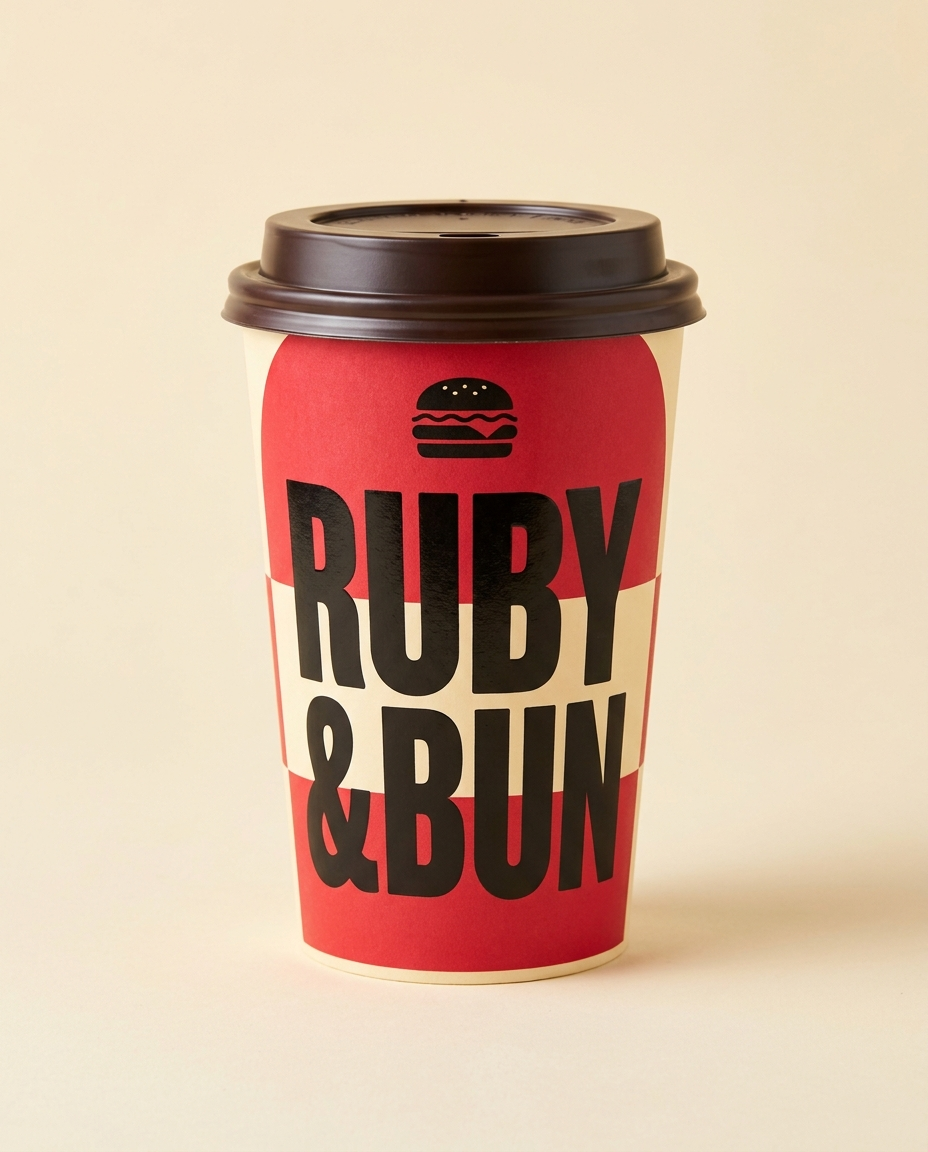
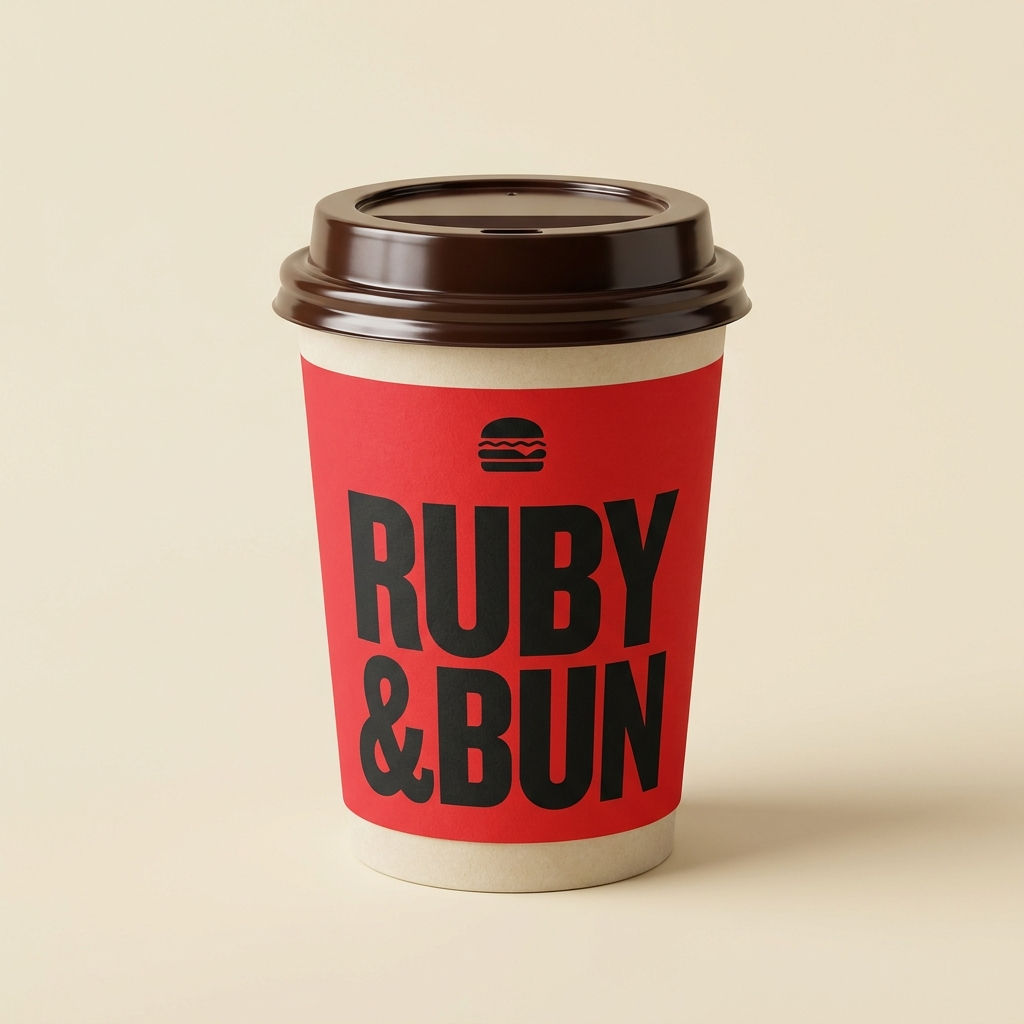
Remove PB-031 + fix hot-cup sizing + SEO basics for public launch
- Remove PB-031 (drink tower) from manifest; back to 30 SKUs
- Regenerate PB-029/030 hot cups with identical framing (cup ~75% of frame height)
  so they appear the same visual size in catalog cards
- Add app/robots.ts (allow /, /catalog; disallow /panel, /api)
- Add app/sitemap.ts (root + /catalog routes)
- Repo secrets audit: clean. No API keys in source or git history.
  Only process.env.* references; .env.local is gitignored; only
  .env.local.example (placeholders) is tracked.

Changed region(s): [[0.2188, 0.1562, 0.9062, 0.875]]

diff --git a/_logo_preview.html b/_logo_preview.html
@@ -1,0 +1,14 @@
+<!DOCTYPE html>
+<html><head><style>
+  body { margin:0; background:#F4EFE3; display:flex; align-items:center; justify-content:center; height:512px; gap:48px; padding:48px; }
+  .item { display:flex; flex-direction:column; align-items:center; gap:16px; font-family:Georgia,serif; color:#555; font-size:12px; letter-spacing:0.2em; text-transform:uppercase; }
+  .icon-big { width:256px; height:256px; }
+  .icon-md { width:64px; height:64px; }
+  .icon-sm { width:32px; height:32px; }
+  .icon-xs { width:16px; height:16px; }
+</style></head><body>
+<div class="item"><img src="public/logo/favicon.svg" class="icon-big"><span>256 px</span></div>
+<div class="item"><img src="public/logo/favicon.svg" class="icon-md"><span>64 px</span></div>
+<div class="item"><img src="public/logo/favicon.svg" class="icon-sm"><span>32 px</span></div>
+<div class="item"><img src="public/logo/favicon.svg" class="icon-xs"><span>16 px</span></div>
+</body></html>

diff --git a/lib/products.ts b/lib/products.ts
@@ -43,7 +43,6 @@ const titles: Record<string, { title: string; category: string }> = {
   "PB-028": { title: "כוס גלידה פינט 1PINT", category: "אריזות גלידה" },
   "PB-029": { title: "כוס חמה דופן רגילה", category: "כוסות משקה חם" },
   "PB-030": { title: "כוס חמה דופן כפולה", category: "כוסות משקה חם" },
-  "PB-031": { title: "מגדל משקה לאירועים", category: "כוסות אירועים" },
 };
 
 function entry(id: string): Product {
@@ -72,7 +71,7 @@ const top8 = [
   "PB-002", // kraft burger box
 ];
 
-const remaining = Array.from({ length: 31 }, (_, i) =>
+const remaining = Array.from({ length: 30 }, (_, i) =>
   `PB-${String(i + 1).padStart(3, "0")}`
 ).filter((id) => !top8.includes(id));
 

diff --git a/app/sitemap.ts b/app/sitemap.ts
@@ -1,0 +1,20 @@
+import type { MetadataRoute } from "next";
+
+export default function sitemap(): MetadataRoute.Sitemap {
+  const base = "https://printbox.example.com";
+  const now = new Date();
+  return [
+    {
+      url: `${base}/`,
+      lastModified: now,
+      changeFrequency: "weekly",
+      priority: 1,
+    },
+    {
+      url: `${base}/catalog`,
+      lastModified: now,
+      changeFrequency: "weekly",
+      priority: 0.9,
+    },
+  ];
+}

diff --git a/app/robots.ts b/app/robots.ts
@@ -1,0 +1,14 @@
+import type { MetadataRoute } from "next";
+
+export default function robots(): MetadataRoute.Robots {
+  return {
+    rules: [
+      {
+        userAgent: "*",
+        allow: ["/", "/catalog"],
+        disallow: ["/panel", "/api"],
+      },
+    ],
+    sitemap: "https://printbox.example.com/sitemap.xml",
+  };
+}
